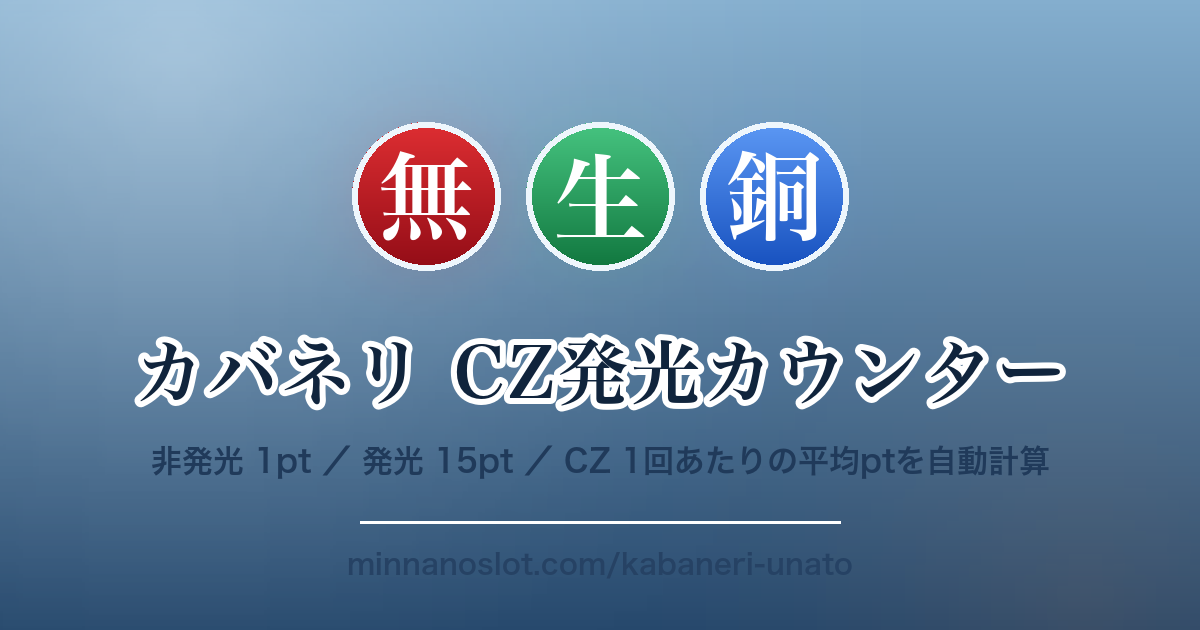
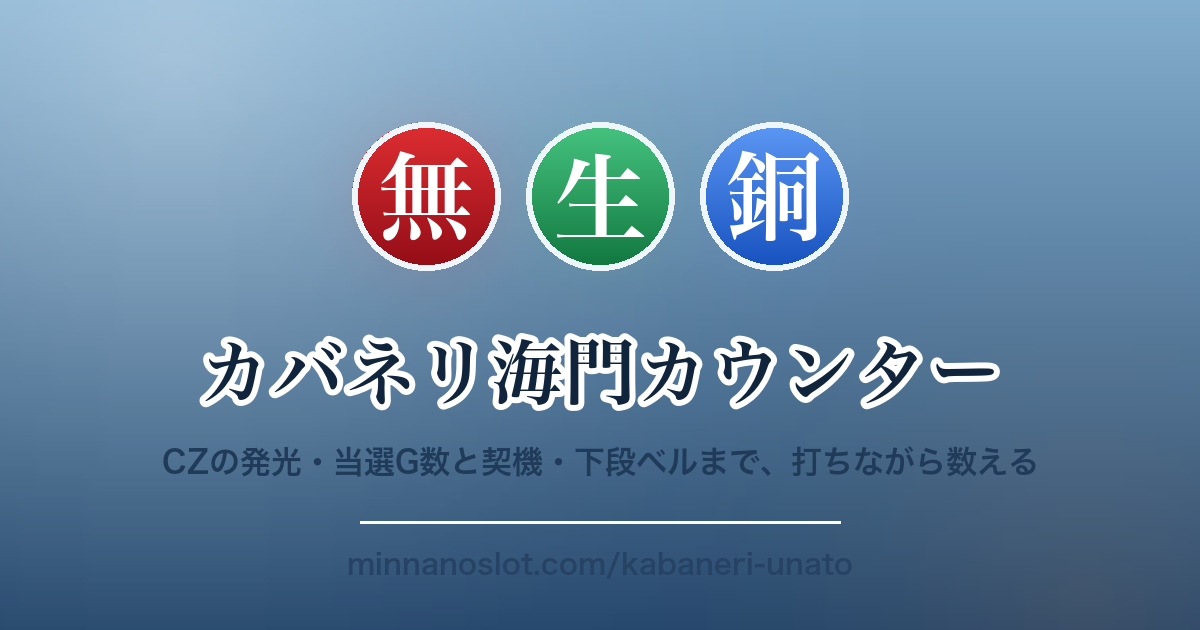
名前を「カバネリ海門カウンター」に統一した
CZ抽選だけの道具ではなくなったため、全体の表記を揃えた。

- アプリの見出し・ブラウザのタブ・OGP・Twitterカード
- ホーム画面の名前は「海門カウンター」（長いと省略されるため）
- 結果カードの中の表記とシェア文
- トップページの機種一覧
- マニフェストの名前・説明文。背景色と表示色も古い黒のままだったので
  いまの濃紺に合わせた
- OGP画像を作り直し、説明文も実態に合わせた

Changed region(s): [[0.0925, 0.5127, 0.8942, 0.6635], [0.1233, 0.6937, 0.8942, 0.754]]

diff --git a/kabaneri-unato/index.html b/kabaneri-unato/index.html
@@ -6,21 +6,21 @@
 <meta name="theme-color" content="#0d1c2e">
 <meta name="apple-mobile-web-app-capable" content="yes">
 <meta name="apple-mobile-web-app-status-bar-style" content="black-translucent">
-<meta name="apple-mobile-web-app-title" content="カバネリカウンター">
+<meta name="apple-mobile-web-app-title" content="海門カウンター">
 <link rel="manifest" href="./manifest.webmanifest">
 <link rel="apple-touch-icon" href="./apple-touch-icon.png">
 <link rel="icon" type="image/png" href="./icon-192.png">
 <meta property="og:type" content="website">
 <meta property="og:site_name" content="みんなのスロット">
-<meta property="og:title" content="カバネリ CZ発光カウンター">
+<meta property="og:title" content="カバネリ海門カウンター">
 <meta property="og:description" content="非発光1pt・発光15ptで数えて、平均発光率とCZ 1回あたりの平均ポイントを自動計算。スマホでそのまま使えます。">
 <meta property="og:url" content="https://minnanoslot.com/kabaneri-unato/">
 <meta property="og:image" content="https://minnanoslot.com/kabaneri-unato/ogp.png">
 <meta name="twitter:card" content="summary_large_image">
-<meta name="twitter:title" content="カバネリ CZ発光カウンター">
+<meta name="twitter:title" content="カバネリ海門カウンター">
 <meta name="twitter:description" content="非発光1pt・発光15ptで数えて、平均発光率とCZ 1回あたりの平均ポイントを自動計算。">
 <meta name="twitter:image" content="https://minnanoslot.com/kabaneri-unato/ogp.png">
-<title>カバネリ CZ発光カウンター</title>
+<title>カバネリ海門カウンター</title>
 <style>
   :root{
     --bg:#0d1c2e;
@@ -692,7 +692,7 @@
 
 <header>
   <div class="hbar">
-    <h1>カバネリ CZ発光カウンター</h1>
+    <h1>カバネリ海門カウンター</h1>
     <button class="menubtn" id="menubtn" aria-label="メニュー" aria-expanded="false">
       <i></i><i></i><i></i>
     </button>
@@ -2453,7 +2453,7 @@ function buildCard(r){
   // 見出し
   g.fillStyle = '#8a93a6';
   g.font = `500 26px ${CARD_JP}`;
-  g.fillText('カバネリ CZ発光カウンター', M, 96);
+  g.fillText('カバネリ海門カウンター', M, 96);
 
   const d = new Date(r.date);
   g.fillStyle = '#e8ecf3';
@@ -2630,7 +2630,7 @@ async function shareCard(){
     if (navigator.canShare && navigator.canShare({ files: [file] })) {
       await navigator.share({
         files: [file],
-        text: 'カバネリ CZ発光カウンターで記録\nhttps://minnanoslot.com/kabaneri-unato/'
+        text: 'カバネリ海門カウンターで記録\nhttps://minnanoslot.com/kabaneri-unato/'
       });
       return;
     }

diff --git a/src/index.html b/src/index.html
@@ -6,8 +6,8 @@
 <meta name="theme-color" content="#0d1c2e">
 <meta name="apple-mobile-web-app-capable" content="yes">
 <meta name="apple-mobile-web-app-status-bar-style" content="black-translucent">
-<meta name="apple-mobile-web-app-title" content="カバネリカウンター">
-<title>カバネリ CZ発光カウンター</title>
+<meta name="apple-mobile-web-app-title" content="海門カウンター">
+<title>カバネリ海門カウンター</title>
 <style>
   :root{
     --bg:#0d1c2e;
@@ -679,7 +679,7 @@
 
 <header>
   <div class="hbar">
-    <h1>カバネリ CZ発光カウンター</h1>
+    <h1>カバネリ海門カウンター</h1>
     <button class="menubtn" id="menubtn" aria-label="メニュー" aria-expanded="false">
       <i></i><i></i><i></i>
     </button>
@@ -2481,7 +2481,7 @@ function buildCard(r){
   // 見出し
   g.fillStyle = '#8a93a6';
   g.font = `500 26px ${CARD_JP}`;
-  g.fillText('カバネリ CZ発光カウンター', M, 96);
+  g.fillText('カバネリ海門カウンター', M, 96);
 
   const d = new Date(r.date);
   g.fillStyle = '#e8ecf3';
@@ -2658,7 +2658,7 @@ async function shareCard(){
     if (navigator.canShare && navigator.canShare({ files: [file] })) {
       await navigator.share({
         files: [file],
-        text: 'カバネリ CZ発光カウンターで記録\nhttps://minnanoslot.com/kabaneri-unato/'
+        text: 'カバネリ海門カウンターで記録\nhttps://minnanoslot.com/kabaneri-unato/'
       });
       return;
     }

diff --git a/index.html b/index.html
@@ -86,7 +86,7 @@
         </span>
         <span class="txt">
           <span class="nm">スマスロ カバネリ 海門決戦</span>
-          <span class="sub">CZ発光カウンター</span>
+          <span class="sub">海門カウンター</span>
         </span>
         <span class="arw">›</span>
       </a>

diff --git a/kabaneri-unato/sw.js b/kabaneri-unato/sw.js
@@ -1,6 +1,6 @@
 // オフラインでも起動できるようにするサービスワーカー
 // index.html を更新したら CACHE の数字を上げること（古いキャッシュが残るのを防ぐ）
-const CACHE = 'kabaneri-counter-v84';
+const CACHE = 'kabaneri-counter-v85';
 
 const ASSETS = [
   './',

diff --git a/src/build-pages.py b/src/build-pages.py
@@ -25,12 +25,12 @@ HEAD_ADD = f'''<link rel="manifest" href="./manifest.webmanifest">
 <link rel="icon" type="image/png" href="./icon-192.png">
 <meta property="og:type" content="website">
 <meta property="og:site_name" content="みんなのスロット">
-<meta property="og:title" content="カバネリ CZ発光カウンター">
+<meta property="og:title" content="カバネリ海門カウンター">
 <meta property="og:description" content="非発光1pt・発光15ptで数えて、平均発光率とCZ 1回あたりの平均ポイントを自動計算。スマホでそのまま使えます。">
 <meta property="og:url" content="{SITE}">
 <meta property="og:image" content="{SITE}ogp.png">
 <meta name="twitter:card" content="summary_large_image">
-<meta name="twitter:title" content="カバネリ CZ発光カウンター">
+<meta name="twitter:title" content="カバネリ海門カウンター">
 <meta name="twitter:description" content="非発光1pt・発光15ptで数えて、平均発光率とCZ 1回あたりの平均ポイントを自動計算。">
 <meta name="twitter:image" content="{SITE}ogp.png">
 '''
@@ -51,7 +51,7 @@ BEACON = (
     "data-cf-beacon='{\"token\": \"" + BEACON_TOKEN + "\"}'></script>\n"
 )
 
-TITLE = '<title>カバネリ CZ発光カウンター</title>'
+TITLE = '<title>カバネリ海門カウンター</title>'
 ICON_BLOCK_START = '/* ---------- iOS ホーム画面用のアイコンと名前 ---------- */'
 ICON_BLOCK_END = 'setupHomeScreen();\n'
 

diff --git a/src/make-icons.py b/src/make-icons.py
@@ -162,9 +162,9 @@ def ogp():
         d.ellipse((int(x - r), cy - r, int(x + r), cy + r), outline=RING, width=6)
         center(d, (x, cy), ch, mincho(int(r * 1.3)), WHITE)
 
-    center(d, (W / 2, 372), 'カバネリ CZ発光カウンター', mincho(70),
+    center(d, (W / 2, 372), 'カバネリ海門カウンター', mincho(70),
            NAVY, stroke=6, stroke_fill=WHITE, spacing=3)
-    center(d, (W / 2, 462), '非発光 1pt ／ 発光 15pt ／ CZ 1回あたりの平均ptを自動計算',
+    center(d, (W / 2, 462), 'CZの発光・当選G数と契機・下段ベルまで、打ちながら数える',
            gothic6(31), (32, 58, 90))
     d.line([(W * 0.30, 522), (W * 0.70, 522)], fill=WHITE, width=3)
     center(d, (W / 2, 566), 'minnanoslot.com/kabaneri-unato', gothic6(28), (38, 66, 100))
